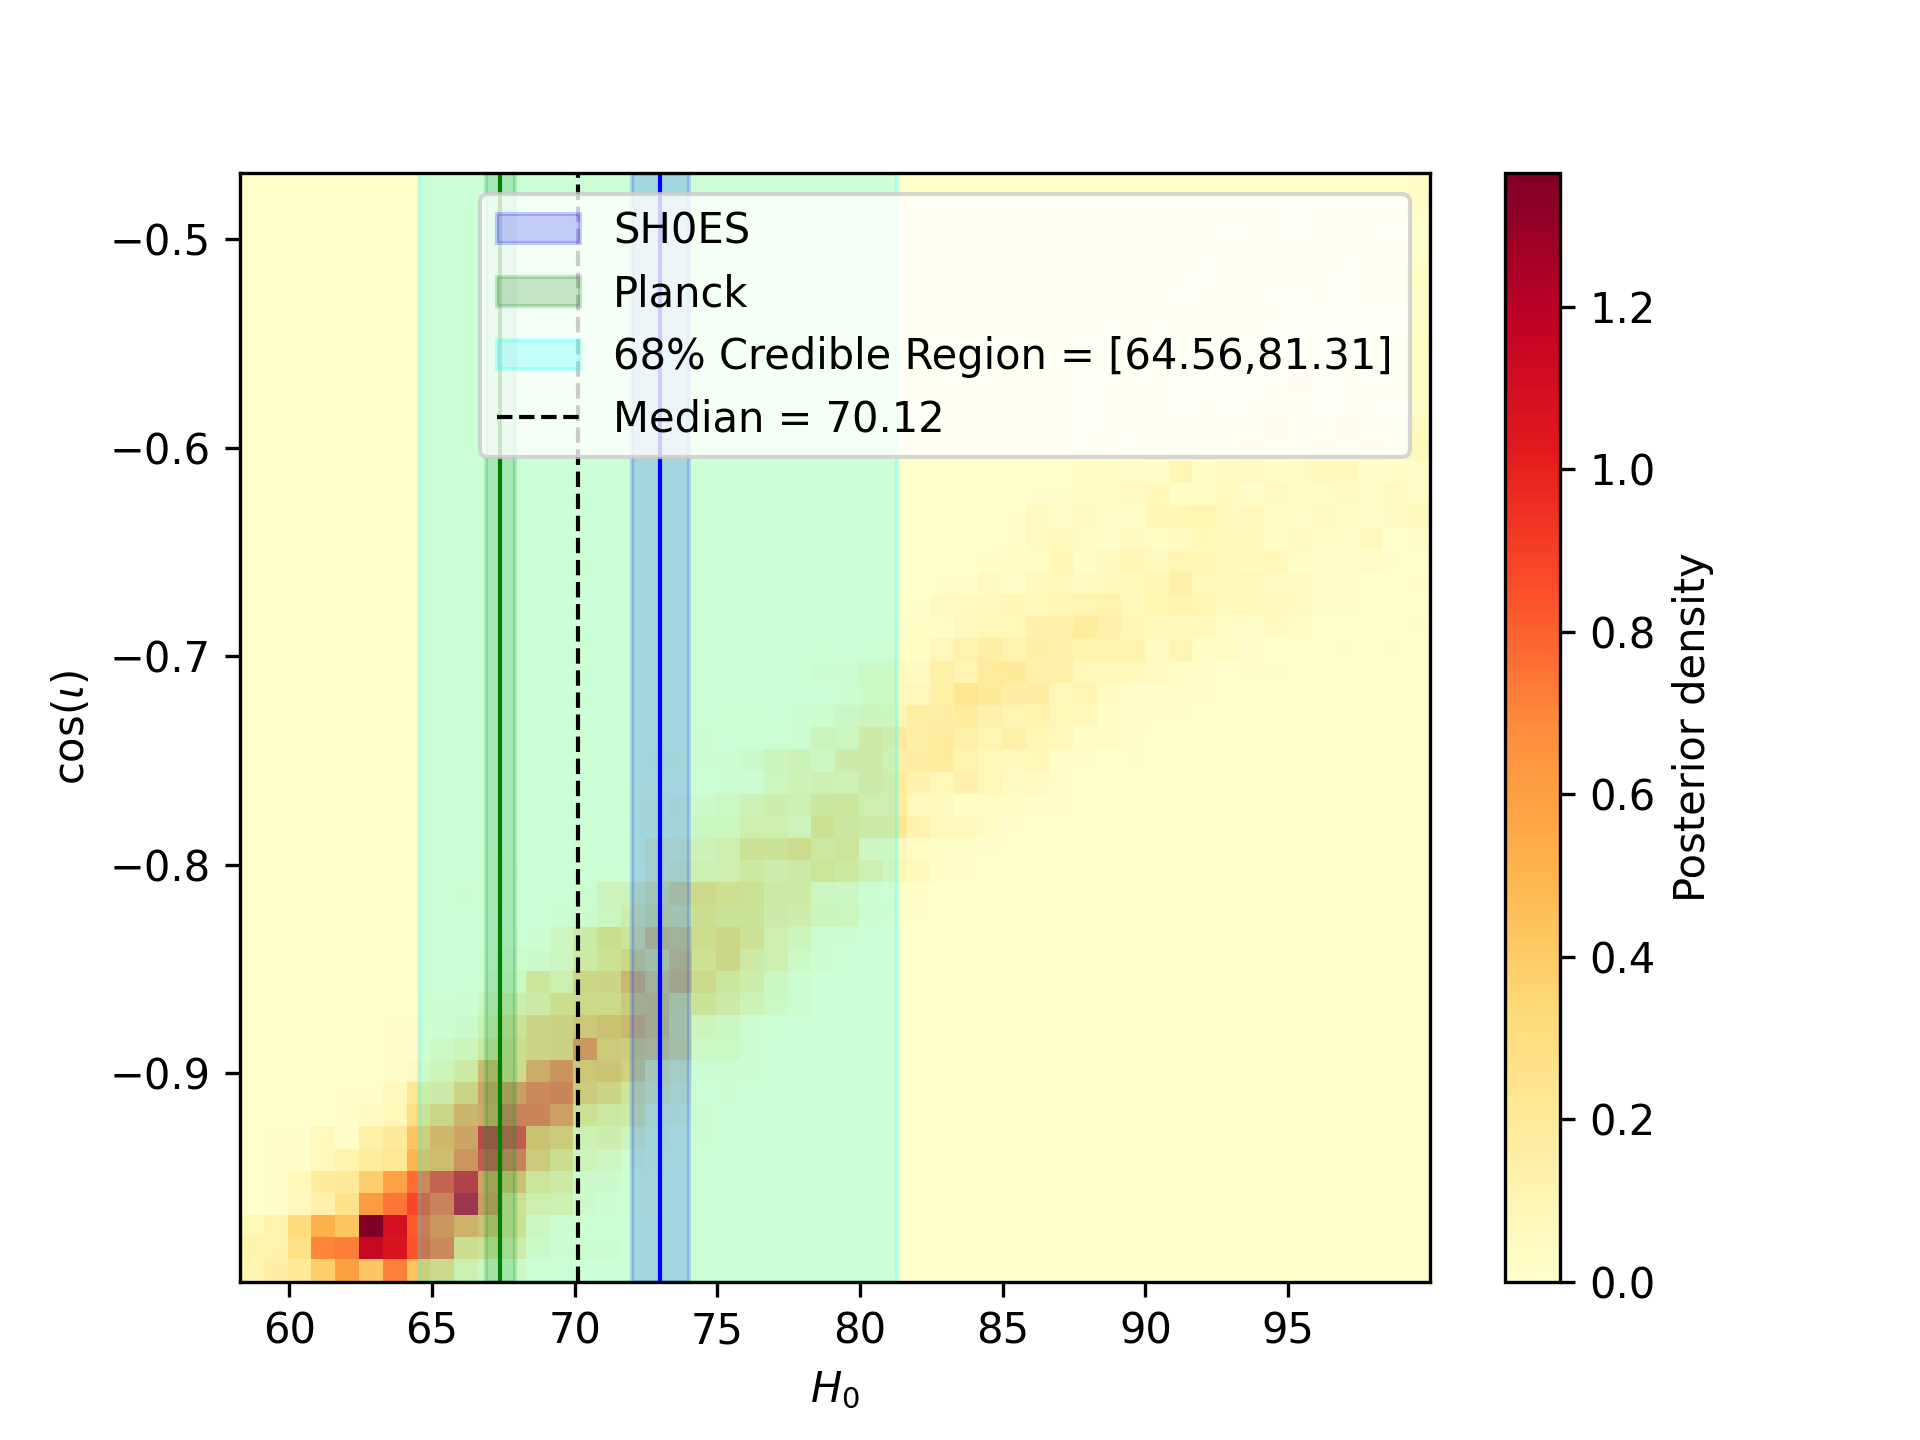
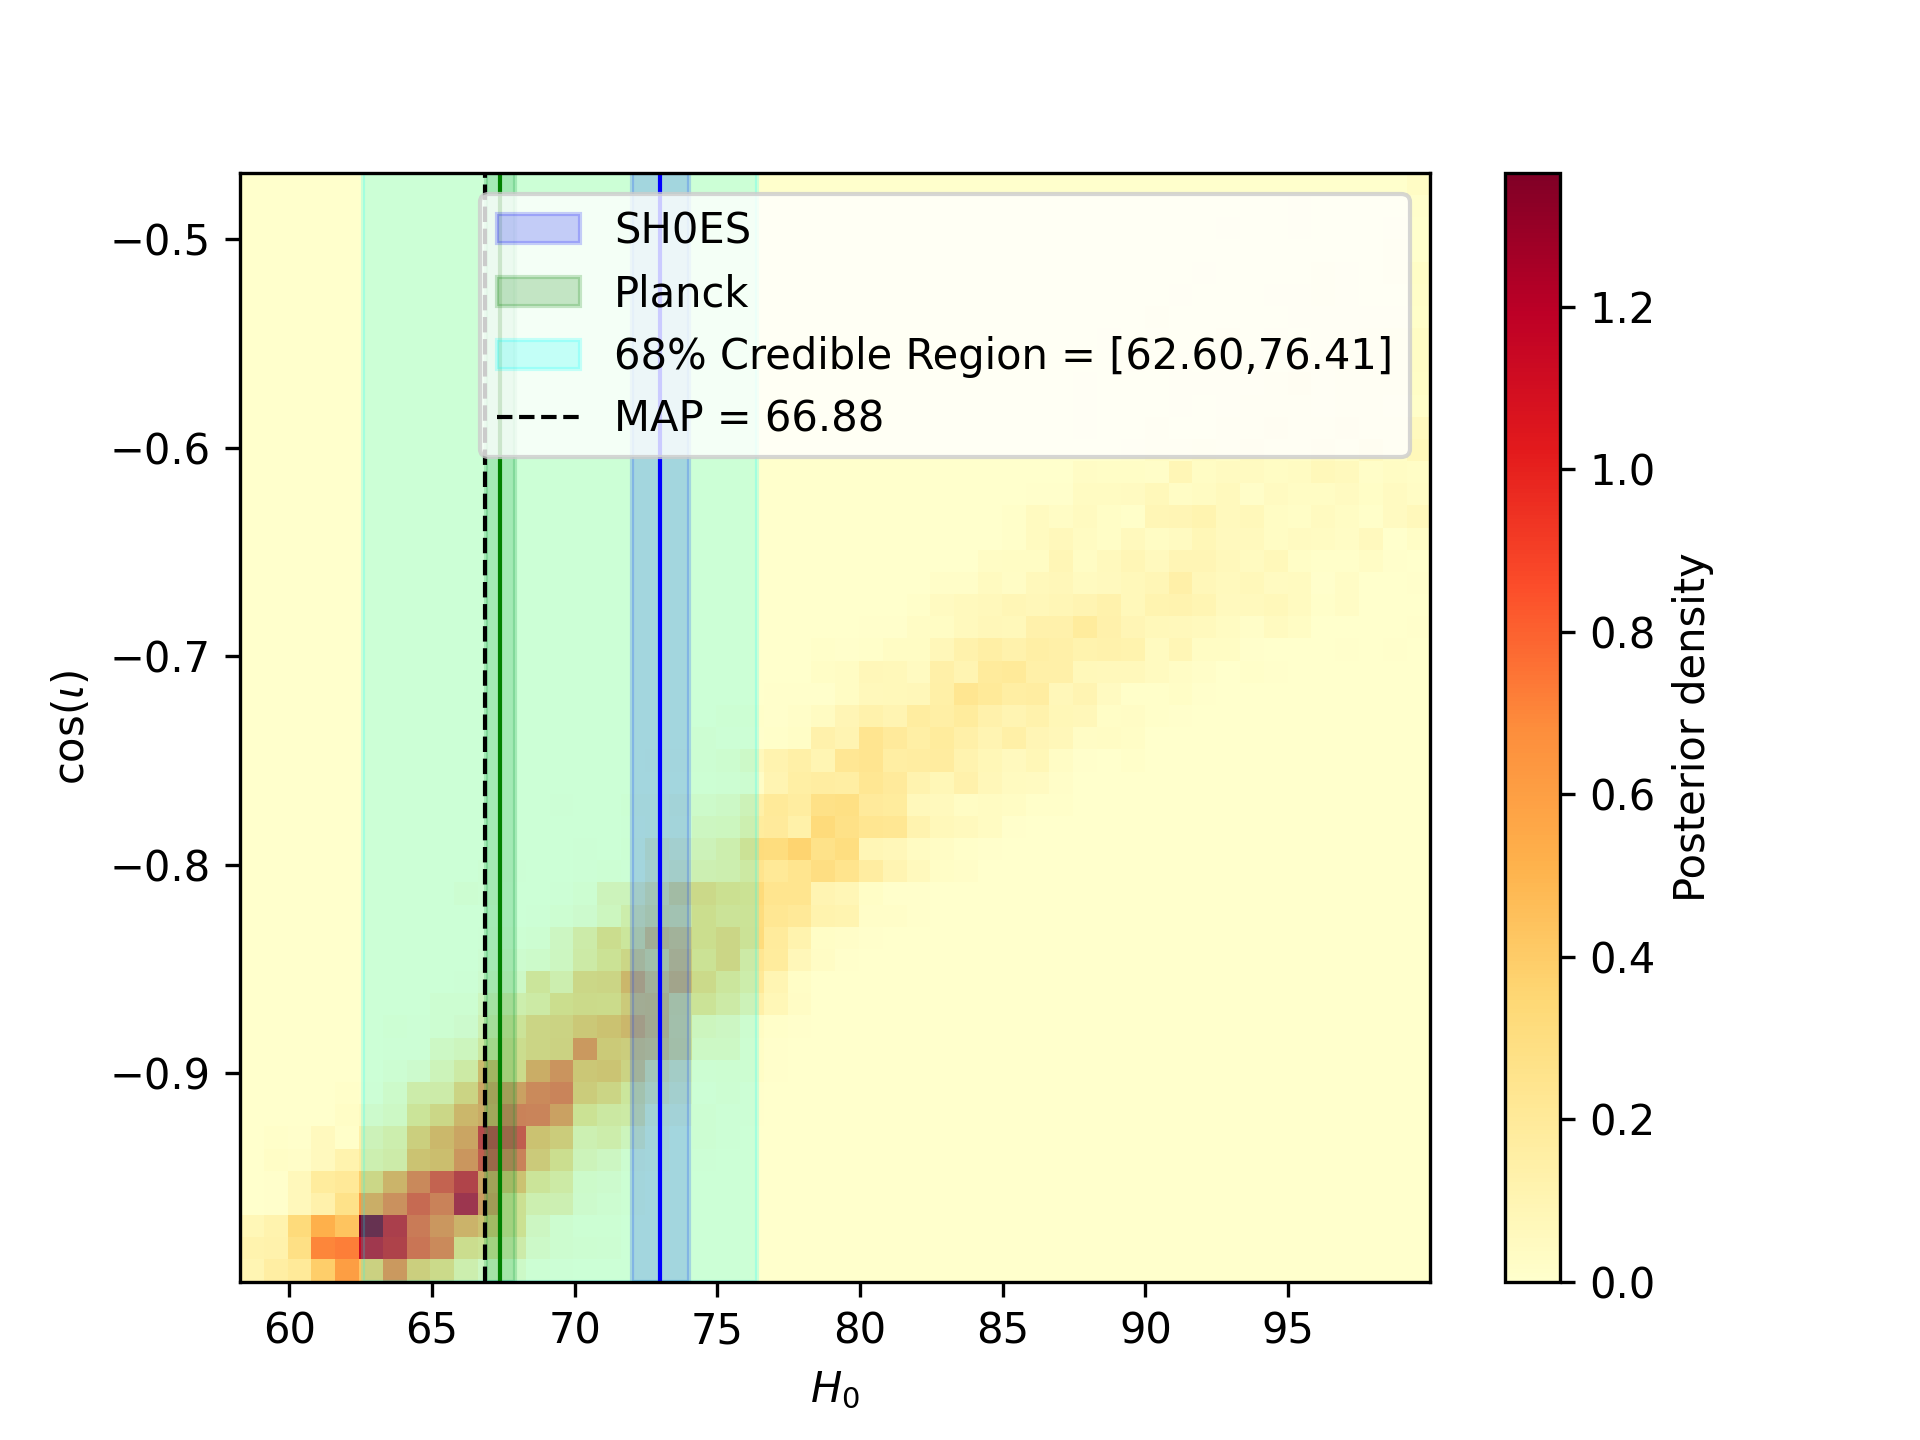
MAP implementation in GW_code

diff --git a/src/GW_code.py b/src/GW_code.py
@@ -4,6 +4,7 @@ import numpy as np
 from scipy.stats import gaussian_kde
 import matplotlib.pyplot as plt
 import corner
+from scipy import stats
 from pathlib import Path
 
 # Get path of this script
@@ -19,7 +20,7 @@ d_l = df['luminosity_distance_Mpc']
 cos_iota = df['costheta_jn']
 
 z = 0.009877        # redshift from https://ned.ipac.caltech.edu/byname?objname=ngc+4993&hconst=67.8&omegam=0.308&omegav=0.692&wmap=4&corr_z=1
-# z_uncert = 1.67e-5 do we need to take this into account?
+z_uncert = 1.67e-5 
 c = 299792.458      # speed of light in km/s from https://physics.nist.gov/cgi-bin/cuu/Value?c
 planck_mean = 67.4
 planck_sigma = 0.5
@@ -146,6 +147,19 @@ def sampler_2D(
 
     return np.array(chain), accepted_H_0, accepted_cos_iota,n_accepted/n_samples
 
+def compute_hpd(samples, alpha=0.68):
+    sorted_samples = np.sort(samples)
+    N = len(samples)
+    interval_idx = int(np.floor(alpha * N))
+    
+    intervals = sorted_samples[interval_idx:] - sorted_samples[:N - interval_idx]
+    min_idx = np.argmin(intervals)
+    
+    hpd_min = sorted_samples[min_idx]
+    hpd_max = sorted_samples[min_idx + interval_idx]
+    
+    return hpd_min, hpd_max
+
 # https://research-portal.uu.nl/ws/portalfiles/portal/248573031/PhysRevD.110.083033.pdf proposal width of 20%
 n_samples=100000
 initial=[80, -1]
@@ -160,8 +174,14 @@ samples = chain[burnin:]
 
 H0_samples = samples[:, 0]
 
-median = np.median(H0_samples)
-low, high = np.percentile(H0_samples, [16, 84])
+kde_1d = gaussian_kde(H0_samples)
+
+H0_grid = np.linspace(min(H0_samples), max(H0_samples), 1000)
+posterior_vals = kde_1d(H0_grid)
+
+MAP = H0_grid[np.argmax(posterior_vals)]
+
+low, high = compute_hpd(H0_samples, alpha=0.68)
 
 plt.hist2d(samples[:, 0], samples[:, 1], bins=50, density=True,cmap='YlOrRd')
 plt.xlabel(r"$H_0$")
@@ -193,7 +213,7 @@ plt.axvspan(
     alpha=0.2,
     label=f'68% Credible Region = [{low:.2f},{high:.2f}]'
 )
-plt.axvline(median, color='black',linestyle='--', linewidth=1,label=f"Median = {median:.2f}")
+plt.axvline(MAP, color='black',linestyle='--', linewidth=1,label=f"MAP = {MAP:.2f}")
 
 plt.legend()
 

diff --git a/ToDo_List.md b/ToDo_List.md
@@ -1,11 +1,11 @@
 # ToDo
-## @ 31.03  16h08
+## @ 02.04  14h041
 
-- Latex report :)
-- Implementing uncertainty on $z$!! Project proposal says "A typical peculiar-velocity correction is modelled as an additional Gaussian uncertainty $\sigma_{pec}\approx 250$ km s $^{−1}$ added in quadrature to the redshift uncertainty." Presumably this should just plug into our calculation of the credible region (?)
+- report
+- Error propagation
 - Missing citations in `GW_notebook.ipynb` and `GW_code.py`
 - Clean up/write more comments in `GW_notebook.ipynb` and `GW_code.py`
-- Is the trace okay?
+- MAP
 - Export and save additional plots from in `GW_notebook.ipynb` to `plots` folder
 - General proofread of `GW_notebook.ipynb` markdown cells
 - Contributions section (in `README.md`? or in Latex report?)
